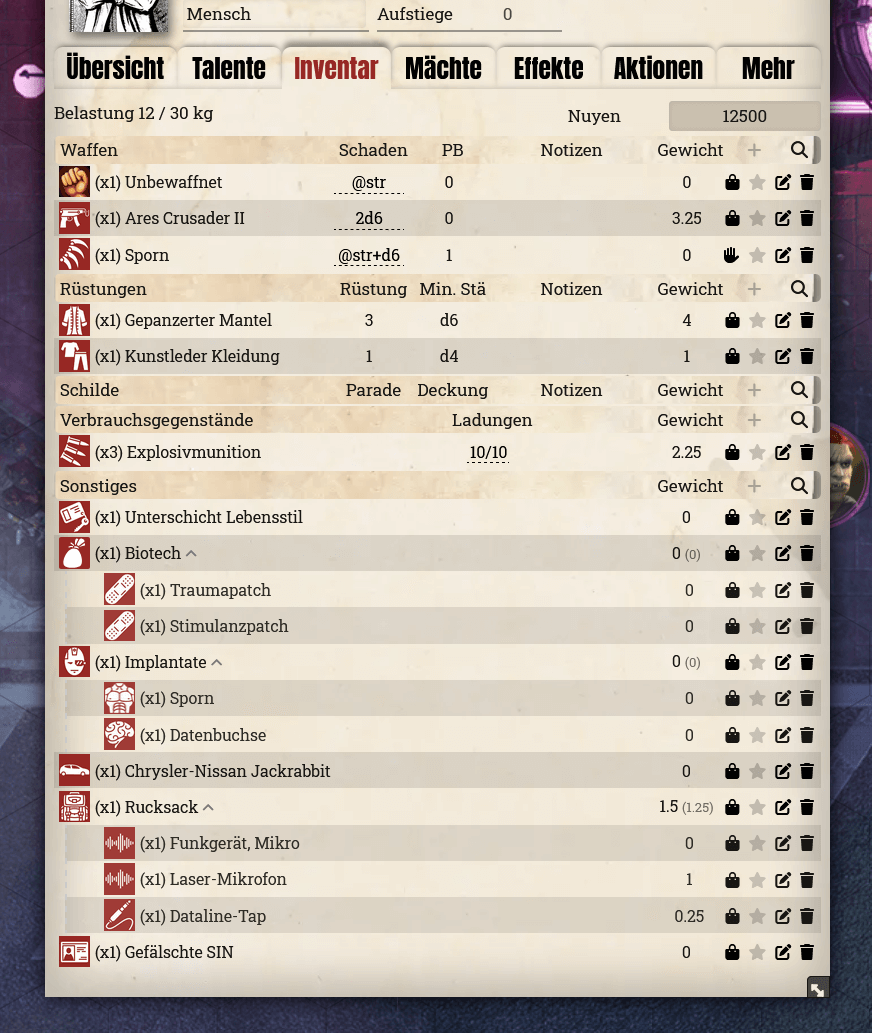
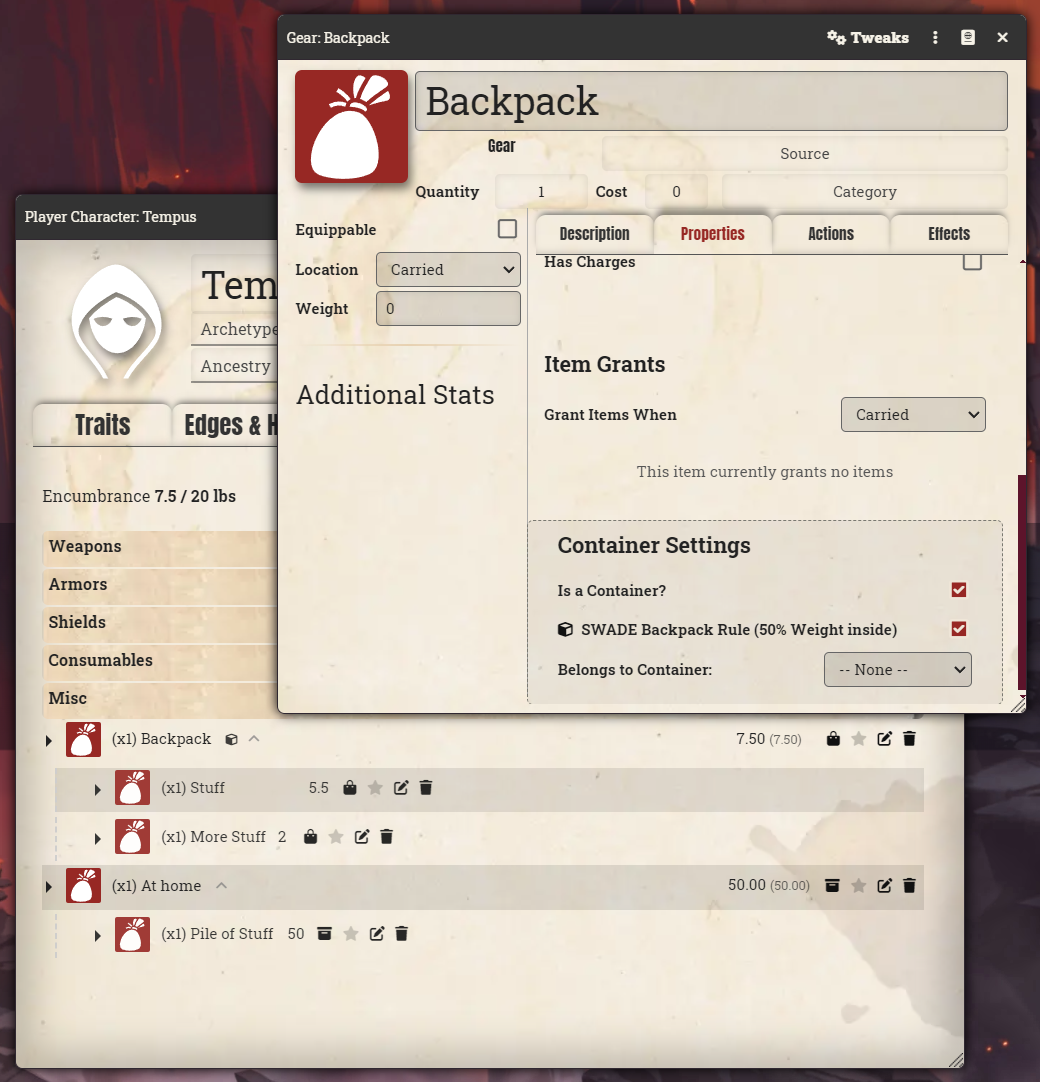
feat: Update container logic for ApplicationV2 compatibility

diff --git a/scripts/main.js b/scripts/main.js
@@ -6,142 +6,228 @@ Hooks.once('init', () => {
     console.log("SWADE Containers | Initializing...");
 });
 
-// 1. Item Sheet: Dropdown UI
-Hooks.on("renderItemSheet", (app, html, data) => {
-    const supportedTypes = ["gear", "weapon", "armor", "shield"];
-    if (!supportedTypes.includes(app.item.type)) return;
+// 1. Scroll Restoration Logic
+Hooks.on("preRenderApplicationV2", (app) => {
+    if (app.document?.documentName !== "Actor") return;
+    const html = app.element;
+    if (!html) return;
 
-    const item = app.item;
-    const actor = item.actor;
-    const isContainer = item.getFlag("swade-containers", "isContainer") || false;
-    const currentParentId = item.getFlag("swade-containers", "containerId") || "";
+    const scrollable = html.querySelector('.sheet-body.scrollable.active');
+    if (scrollable) {
+        app._swadeContainerScroll = scrollable.scrollTop;
+    }
+});
 
-    let containerSection = `
-        <hr>
+Hooks.on("renderApplicationV2", (app, html) => {
+    const doc = app.document;
+    const root = (html instanceof HTMLElement ? html : html[0]);
+
+    if (doc?.documentName === "Item") {
+        injectItemUI(doc, root);
+    } else if (doc?.documentName === "Actor") {
+        requestAnimationFrame(() => {
+            handleActorUI(app, root);
+            
+            if (app._swadeContainerScroll !== undefined) {
+                const scrollable = root.querySelector('.sheet-body.scrollable.active');
+                if (scrollable) {
+                    scrollable.scrollTop = app._swadeContainerScroll;
+                    setTimeout(() => { scrollable.scrollTop = app._swadeContainerScroll; }, 1);
+                    setTimeout(() => { scrollable.scrollTop = app._swadeContainerScroll; }, 50);
+                }
+            }
+        });
+    }
+});
+
+// 2. Item Sheet UI
+function injectItemUI(item, element) {
+    const supported = ["gear", "consumable"]; 
+    if (!supported.includes(item.type)) return;
+    
+    if (element.querySelector('.swade-container-settings')) return;
+
+    const isContainer = !!item.getFlag("swade-containers", "isContainer");
+    const isBackpack = !!item.getFlag("swade-containers", "isBackpack");
+    const parentId = item.getFlag("swade-containers", "containerId") || "";
+
+    const div = document.createElement("div");
+    div.classList.add("swade-container-settings");
+    div.style.cssText = "margin-top: 10px; padding: 10px; border: 1px dashed #7a7971; border-radius: 5px; background: rgba(0,0,0,0.05);";
+
+    let options = `<option value="">-- None --</option>`;
+    if (item.actor) {
+        item.actor.items.filter(i => supported.includes(i.type) && i.getFlag("swade-containers", "isContainer") && i.id !== item.id)
+            .forEach(c => {
+                options += `<option value="${c.id}" ${parentId === c.id ? "selected" : ""}>${c.name}</option>`;
+            });
+    }
+
+    div.innerHTML = `
+        <h4 class="form-header">Container Settings</h4>
         <div class="form-group">
             <label>Is a Container?</label>
             <input type="checkbox" name="flags.swade-containers.isContainer" ${isContainer ? "checked" : ""}>
         </div>
+        <div class="form-group backpack-option" style="${isContainer ? '' : 'display:none;'}">
+            <label><i class="fa fa-cube" style="color: #111;"></i> SWADE Backpack Rule (50% Weight inside)</label>
+            <input type="checkbox" name="flags.swade-containers.isBackpack" ${isBackpack ? "checked" : ""}>
+        </div>
+        <div class="form-group">
+            <label>Belongs to Container:</label>
+            <select name="flags.swade-containers.containerId">${options}</select>
+        </div>
     `;
 
-    if (actor) {
-        const availableContainers = actor.items.filter(i => 
-            i.getFlag("swade-containers", "isContainer") && i.id !== item.id
-        );
+    const target = element.querySelector('.item-grants')?.closest('section') || element.querySelector('section[data-tab*="prop"]') || element.querySelector('.sheet-body');
+    if (target) target.appendChild(div);
 
-        let options = `<option value="">-- None --</option>`;
-        for (let c of availableContainers) {
-            const isSelected = (currentParentId === c.id || currentParentId.endsWith(c.id)) ? "selected" : "";
-            options += `<option value="${c.id}" ${isSelected}>${c.name}</option>`;
-        }
+    div.querySelector('input[name="flags.swade-containers.isContainer"]').addEventListener('change', e => {
+        div.querySelector('.backpack-option').style.display = e.target.checked ? 'flex' : 'none';
+    });
+}
 
-        containerSection += `
-            <div class="form-group">
-                <label>Belongs to Container:</label>
-                <select name="flags.swade-containers.containerId">
-                    ${options}
-                </select>
-            </div>
-        `;
-    }
-    html.find(".tab[data-tab='properties']").append(containerSection);
-});
-
-// 2. Actor Sheet: Nesting & Weight
-Hooks.on("renderActorSheet", (app, html, data) => {
-    const actor = app.actor;
-    const itemRows = html.find('li.item[data-item-id]');
+// 3. Actor Sheet: Nesting & Weight
+function handleActorUI(app, element) {
+    const actor = app.document;
+    const $html = $(element);
     const weightTotals = {};
+    const itemRows = $html.find('[data-item-id]');
+    const supported = ["gear", "consumable"];
+    
+    itemRows.each((i, el) => {
+        const item = actor.items.get(el.dataset.itemId);
+        if (!item || !supported.includes(item.type)) return;
 
-    itemRows.each((index, element) => {
-        const itemId = element.dataset.itemId;
-        const item = actor.items.get(itemId);
-        if (!item) return;
-
-        // Container Icons
         if (item.getFlag("swade-containers", "isContainer")) {
-            const isCollapsed = item.getFlag("swade-containers", "isCollapsed");
-            const nameLink = $(element).find('.item-name');
-            if (nameLink.find('.container-indicator').length === 0) {
+            const isCollapsed = !!item.getFlag("swade-containers", "isCollapsed");
+            const isBackpack = !!item.getFlag("swade-containers", "isBackpack");
+            const nameLink = $(el).find('.item-name, .name-link').first();
+            
+            if (nameLink.length && !nameLink.find('.container-indicator').length) {
+                if (isBackpack) {
+                    nameLink.append(`<i class="fa fa-cube backpack-indicator" title="Weight Reduction Container" style="margin-left:8px; color: #111; opacity:0.8; font-size:0.8em;"></i>`);
+                }
                 const iconClass = isCollapsed ? 'fa-angle-down' : 'fa-angle-up';
-                nameLink.append(` <i class="fas ${iconClass} container-indicator"></i>`);
+                nameLink.append(`<i class="fas ${iconClass} container-indicator" style="margin-left:8px; cursor:pointer; opacity: 0.7;"></i>`);
             }
         }
 
-        // Child Logic
-        let parentId = item.getFlag("swade-containers", "containerId")?.trim();
-        if (parentId) {
-            if (parentId.includes('.')) parentId = parentId.split('.').pop();
-            const parentRow = html.find(`li.item[data-item-id="${parentId}"]`);
+        const pId = item.getFlag("swade-containers", "containerId");
+        if (pId) {
+            const w = (Number(item.system.weight) || 0) * (Number(item.system.quantity) || 1);
+            weightTotals[pId] = (weightTotals[pId] || 0) + w;
+        }
+    });
 
-            if (parentRow.length > 0) {
-                $(element).insertAfter(parentRow);
-                const parentItem = actor.items.get(parentId);
-                const isCollapsed = parentItem?.getFlag("swade-containers", "isCollapsed");
+    itemRows.each((i, el) => {
+        const item = actor.items.get(el.dataset.itemId);
+        if (!item || !supported.includes(item.type)) return;
 
-                // Toggle visibility and add CSS class
-                element.classList.add("swade-item-child");
-                isCollapsed ? $(element).hide() : $(element).show();
-
-                // Weight Math
-                const itemWeight = (Number(item.system.weight) || 0) * (Number(item.system.quantity) || 1);
-                weightTotals[parentId] = (weightTotals[parentId] || 0) + itemWeight;
+        const pId = item.getFlag("swade-containers", "containerId");
+        if (pId) {
+            const parentRow = $html.find(`[data-item-id="${pId}"]`).first();
+            if (parentRow.length && parentRow.parent().is($(el).parent())) {
+                $(el).insertAfter(parentRow);
+                const isCollapsed = !!actor.items.get(pId)?.getFlag("swade-containers", "isCollapsed");
+                $(el).addClass("swade-item-child").css({
+                    "padding-left": "20px", "border-left": "2px solid #777",
+                    "display": isCollapsed ? "none" : "flex"
+                });
             }
         }
     });
 
-    // Weight Update UI
-    for (const [containerId, total] of Object.entries(weightTotals)) {
-        const parentRow = html.find(`li.item[data-item-id="${containerId}"]`);
-        const weightSpan = parentRow.find('.weight'); 
-        if (weightSpan.length > 0) {
-            const originalWeight = Number(actor.items.get(containerId).system.weight) || 0;
-            const combinedWeight = parseFloat((originalWeight + total).toFixed(2));
-            const contentWeight = parseFloat(total.toFixed(2));
-            weightSpan.html(`${combinedWeight} <small style="opacity:0.6">(${contentWeight})</small>`);
+    for (const [id, total] of Object.entries(weightTotals)) {
+        const span = $html.find(`[data-item-id="${id}"] .weight, [data-item-id="${id}"] .item-weight`).first();
+        if (span.length) {
+            const containerItem = actor.items.get(id);
+            const self = (Number(containerItem.system.weight) || 0) * (Number(containerItem.system.quantity) || 1);
+            span.html(`${(self + total).toFixed(2)} <small style="opacity:0.7">(${total.toFixed(2)})</small>`);
         }
     }
 
-    // Toggle Click Listener
-    html.find('.item-name').off('click.swade-containers').on('click.swade-containers', async (event) => {
-        const li = $(event.currentTarget).closest('li.item');
-        const item = actor.items.get(li.data('item-id'));
-
+    $html.find('.item-name, .name-link').off('click.swadeContainers').on('click.swadeContainers', async (ev) => {
+        const row = $(ev.currentTarget).closest('[data-item-id]');
+        const item = actor.items.get(row.data('item-id'));
         if (item?.getFlag("swade-containers", "isContainer")) {
-            event.preventDefault();
-            event.stopPropagation();
-            const currentState = !!item.getFlag("swade-containers", "isCollapsed");
-            await item.setFlag("swade-containers", "isCollapsed", !currentState);
+            ev.preventDefault(); ev.stopPropagation(); 
+            const scrollable = element.querySelector('.sheet-body.scrollable.active');
+            if (scrollable) app._swadeContainerScroll = scrollable.scrollTop;
+            await item.setFlag("swade-containers", "isCollapsed", !item.getFlag("swade-containers", "isCollapsed"));
         }
     });
-});
+}
 
 // 4. Drag and Drop Interaction
-Hooks.on("dropActorSheetData", (actor, sheet, data) => {
-    if (data.type !== "Item") return true;
-
-    const event = window.event;
-    const targetRow = $(event.target).closest('li.item[data-item-id]');
+Hooks.on("dropActorSheetData", async (actor, sheet, data) => {
+    if (data.type !== "Item" || !data.uuid) return true;
+    const targetEl = document.elementFromPoint(window.event.clientX, window.event.clientY);
+    const targetRow = targetEl?.closest('[data-item-id]');
+    const droppedItem = fromUuidSync(data.uuid);
+    const supported = ["gear", "consumable"];
     
-    if (data.uuid) {
-        const droppedItem = fromUuidSync(data.uuid);
-        if (droppedItem && droppedItem.parent?.id === actor.id) {
-            if (targetRow.length > 0) {
-                const targetItemId = targetRow.data('item-id');
-                const targetItem = actor.items.get(targetItemId);
+    if (droppedItem && supported.includes(droppedItem.type) && droppedItem.parent?.id === actor.id) {
+        let newId = "";
+        let original = droppedItem.getFlag("swade-containers", "originalWeight") ?? Number(droppedItem.system.weight);
+        let targetWeight = original;
 
-                if (targetItem?.getFlag("swade-containers", "isContainer") && droppedItem.id !== targetItemId) {
-                    droppedItem.setFlag("swade-containers", "containerId", targetItemId);
-                    return false; 
-                }
-            } else {
-                // If dropped on the sheet but not on a container, remove from current container
-                if (droppedItem.getFlag("swade-containers", "containerId")) {
-                    droppedItem.setFlag("swade-containers", "containerId", "");
-                    return false;
-                }
+        if (targetRow) {
+            const tId = targetRow.dataset.itemId;
+            const targetItem = actor.items.get(tId);
+            if (targetItem && supported.includes(targetItem.type) && targetItem.getFlag("swade-containers", "isContainer") && droppedItem.id !== tId) {
+                newId = tId;
+                if (targetItem.getFlag("swade-containers", "isBackpack")) targetWeight = original * 0.5;
             }
         }
+
+        await droppedItem.update({
+            "system.weight": targetWeight,
+            "flags.swade-containers.containerId": newId,
+            "flags.swade-containers.originalWeight": original
+        });
+        return false; 
     }
     return true;
+});
+
+// 5. Backpack Sync
+Hooks.on("updateItem", async (item, changes, options, userId) => {
+    if (game.user.id !== userId || !foundry.utils.hasProperty(changes, "flags.swade-containers.isBackpack")) return;
+    const isNowBackpack = changes.flags["swade-containers"].isBackpack;
+    const children = item.parent?.items.filter(i => i.getFlag("swade-containers", "containerId") === item.id);
+    if (!children) return;
+
+    for (let child of children) {
+        let original = child.getFlag("swade-containers", "originalWeight") ?? Number(child.system.weight);
+        await child.update({ 
+            "system.weight": isNowBackpack ? original * 0.5 : original, 
+            "flags.swade-containers.originalWeight": original 
+        });
+    }
+});
+
+// 6. Equip Status Sync (Cascading Stored/Carried)
+Hooks.on("updateItem", async (item, changes, options, userId) => {
+    if (game.user.id !== userId || !foundry.utils.hasProperty(changes, "system.equipStatus")) return;
+
+    const newStatus = changes.system.equipStatus;
+    const isContainer = item.getFlag("swade-containers", "isContainer");
+
+    if (isContainer) {
+        // Find all items belonging to this container
+        const children = item.parent?.items.filter(i => i.getFlag("swade-containers", "containerId") === item.id);
+        if (!children || children.length === 0) return;
+
+        // Create the updates for all child items to match the parent's new status
+        const updates = children.map(child => ({
+            _id: child.id,
+            "system.equipStatus": newStatus
+        }));
+
+        // Perform a bulk update on the Actor to ensure weight recalculates once
+        if (updates.length > 0) {
+            await item.parent.updateEmbeddedDocuments("Item", updates);
+        }
+    }
 });

diff --git a/styles/style.css b/styles/style.css
@@ -6,7 +6,6 @@
     opacity: 0.9;
 }
 
-/* Optional: Make the chevron look a bit more subtle */
 .container-indicator {
     color: #7a7a7a;
     font-size: 0.9em;

diff --git a/README.md b/README.md
@@ -8,17 +8,17 @@ SWADE Containers enhances the standard SWADE actor sheet by allowing items to ac
 
 <img src="assets/screenshot.png" alt="Savage Containers Preview" width="500">
 
-#### How it Works:
+### **How it Works:**
 
 1.  **Create a Container:** Open any item (e.g., "Backpack"), go to **Properties**, and check **Is a Container?**.
-2.  **Organize Gear:** Drag a weapon, piece of armor, or adventuring gear and drop it directly onto your container's name.
+2.  **Fantasy Companion Rules:** Check SWADE Backpack to apply the 50% weight reduction to all items stored inside.
+3.  **Folding:** Click the arrow icon next to a container name to collapse or expand its contents.
+4.  **Organize Gear:** Drag any Gear or Consumable item and drop it directly onto your container's name to nest it.
+5.  **Container Weight Link:** Setting a container to Stored automatically updates all nested items, ensuring weight totals are calculated correctly.
 
 
 ### **Installation:**
-
-1.  Install the module using the Manifest URL below.
-2.  Enable **SWADE Containers** in your world's module management settings.
-3.  Open any Gear, Weapon, or Armor item to configure its container settings.
+To install, import this manifest into the module browser or search for 'SWADE Containers'.
 
 **Manifest URL:**
 `https://raw.githubusercontent.com/ivan-hr/swade-containers/main/module.json`